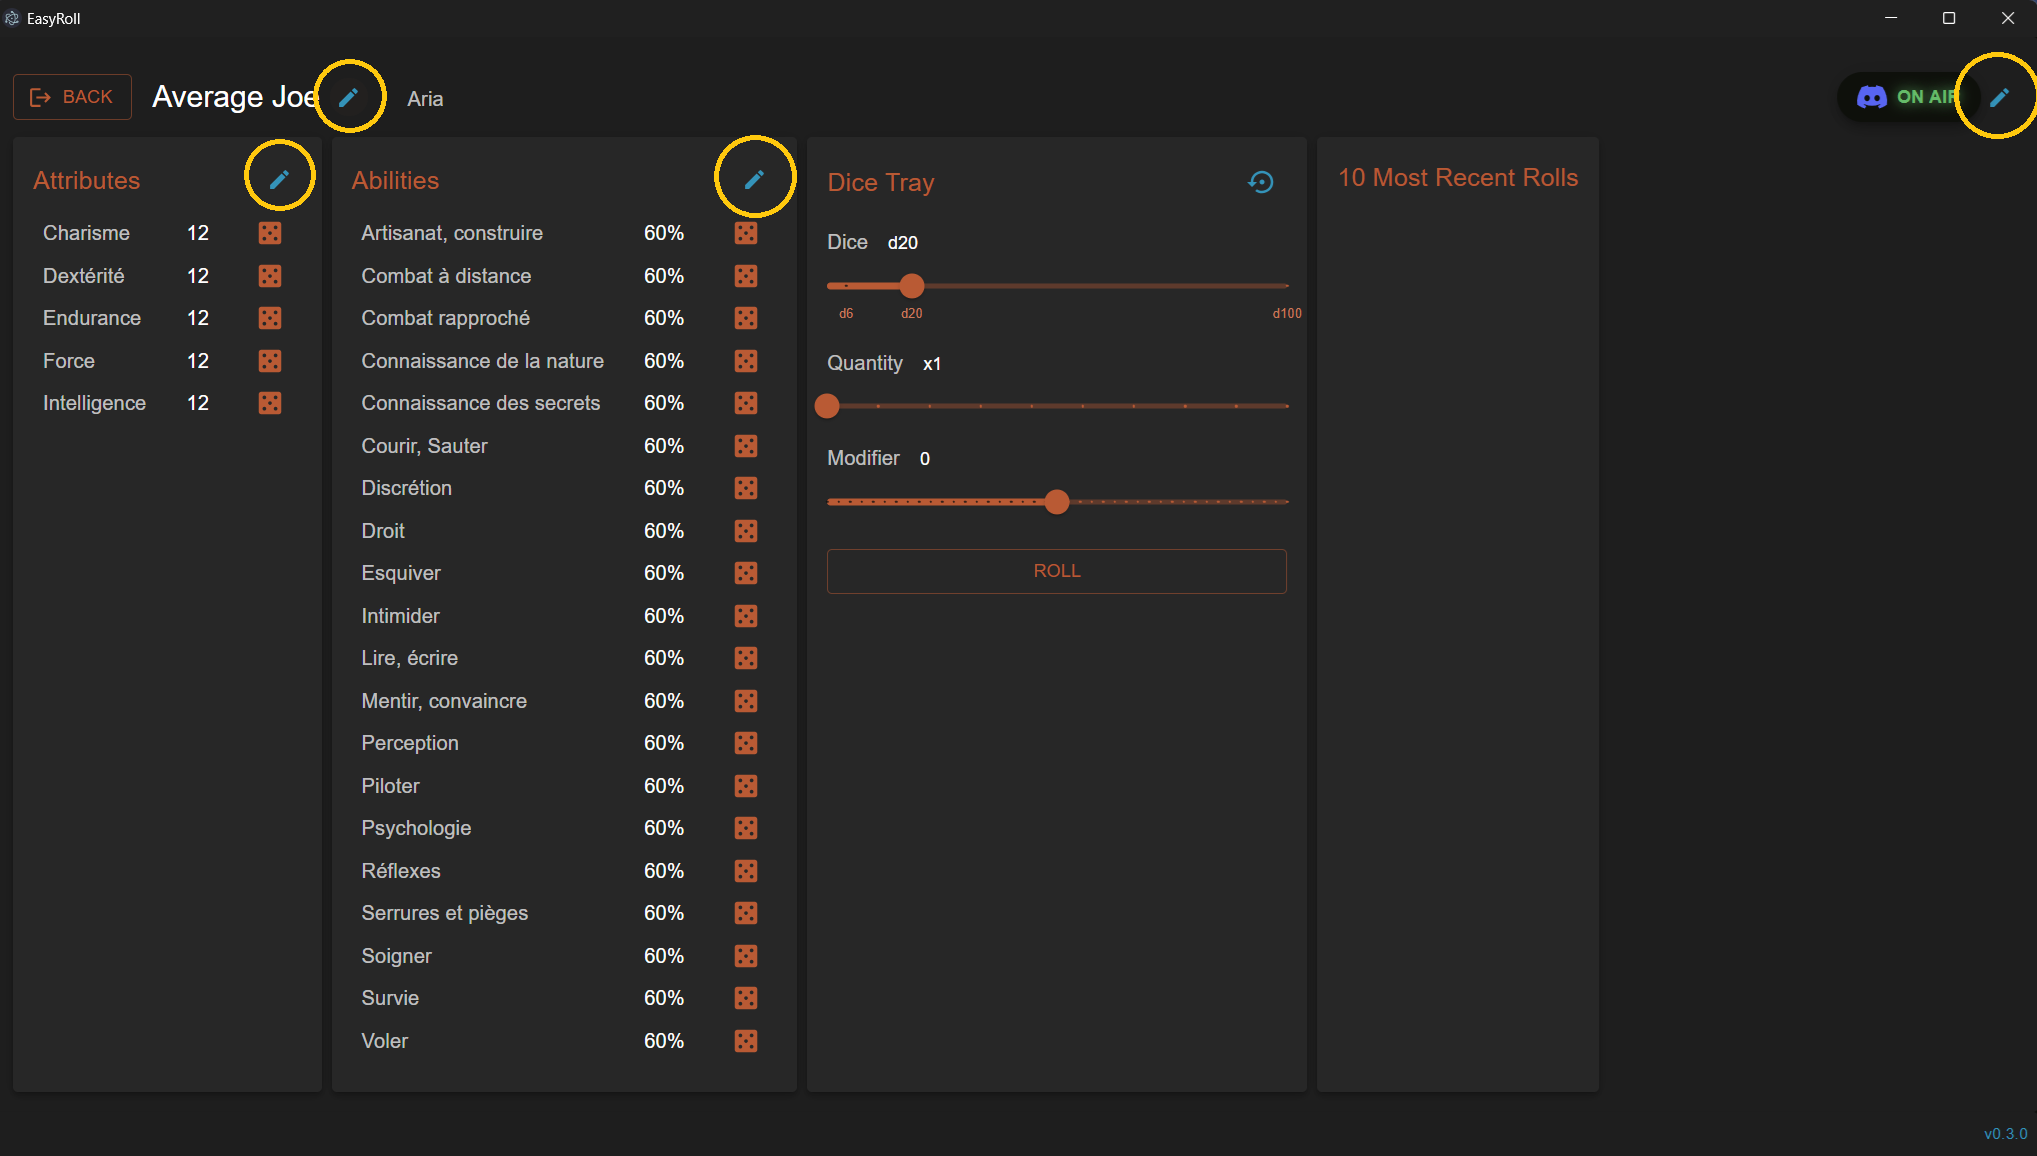
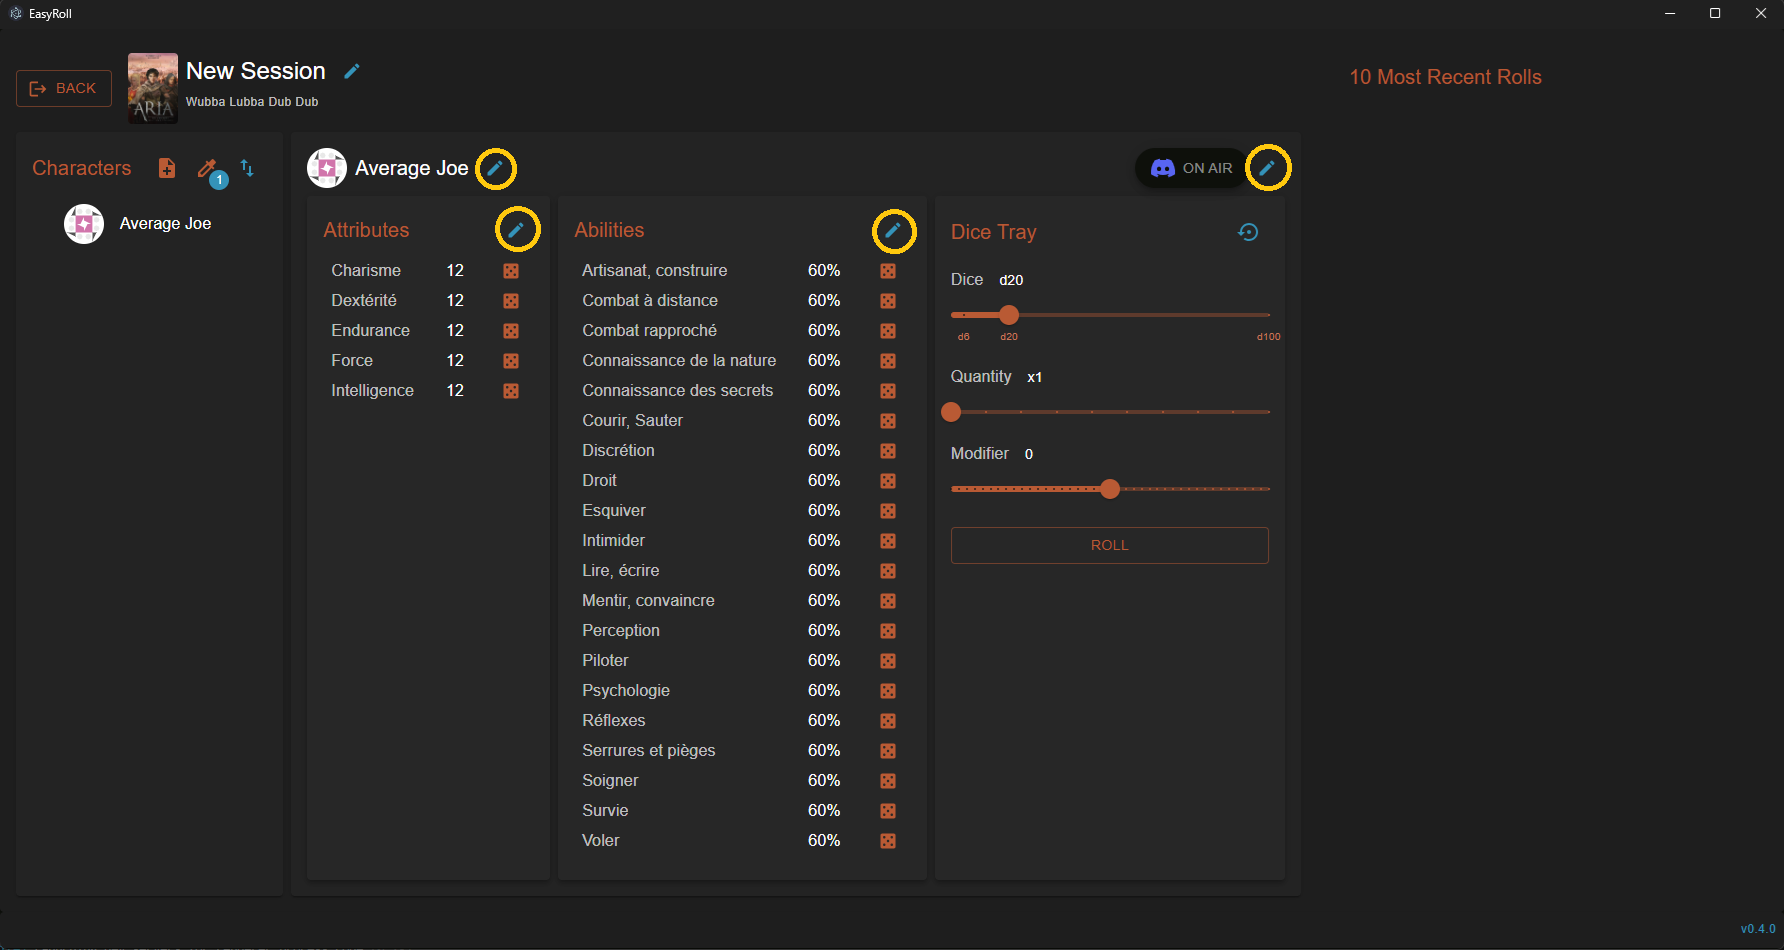
mise à jour du readme suite aux dernières évolutions

diff --git a/README.md b/README.md
@@ -16,25 +16,33 @@ To do this, open a console and type:
 $ xattr -c <path/to/application.app>
 ```
 
-### @ New Users
+### @ Users
 
 <img src='./EasyRoll_UI_Start.png' width=600>
 
-At the moment, two games are "supported":
-* Aria
-* Rêve de Dragon
+At the moment, two games are "supported":  
+<img src='./public/images/Aria_Cover.jpg' width=75> <img src='./public/images/Reve-de-Dragon_Cover.jpg' width=75>
 
-You should first create a new Character for the game relevant to you.  
-This new character will have a default name, and a default list of attributes and abilities based on the chosen game.  
+You should first create a new `Session` for the game relevant to you.  
+Once a new session has been created, you can use it and add some characters to it:  
+<img src='./EasyRoll_UI_AddCharacter.png' width=600>
 
-Then you can customize your character, by selecting it and clicking one of the `pen` icons:  
+There is 3 options:
+1. create a new character from scratch, mostly for new users
+2. add an already existing character, mostly for users of `v0.3.0` and `v0.4.0`  
+_(or if you want to reuse a character from another session)_
+3. import a character from a JSON file  
+_(probably not needed anymore, kinda deprecated..)_
+
+Once a character has been added, select it and click one of the `pen` icons to edit its:  
+* name
+* attributes
+* abilities
+* discord configuration
+
 <img src='./EasyRoll_UI_EditCharacter.png' width=600>
 
-### @ Users of v0.3.0
-
-<img src='./EasyRoll_UI_Start.png' width=600>
-
-You should use the import option in order to retrieve your character(s) from deprecated JSON file(s).
+NB: at the moment, it is not possible to delete a session or character.
 
 ### Links
 
